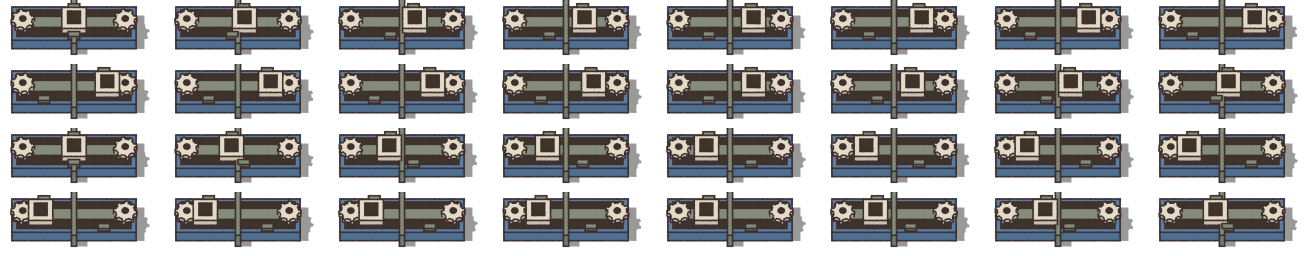
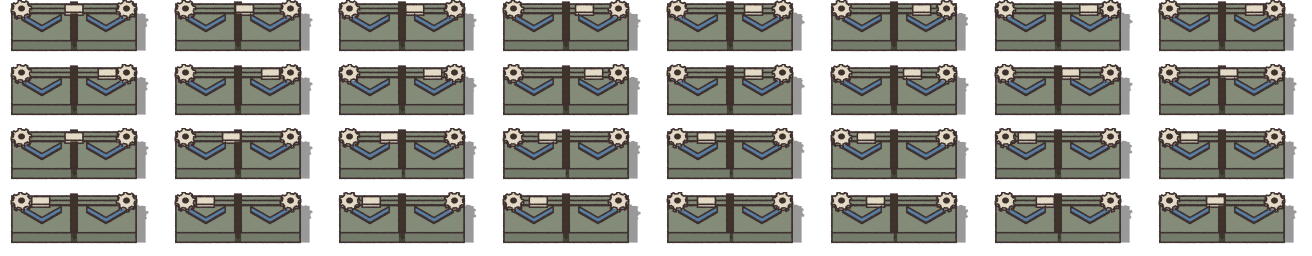
Cartoon : tête des répartiteurs plus épaisse et lisible (bloc gris, chevrons à la couleur du niveau)
Décision de l'étape 1 : la barre fine se perdait sur les convoyeurs.

diff --git a/cartoon/blender/splitter.py b/cartoon/blender/splitter.py
@@ -7,8 +7,8 @@ Pour chaque niveau, écrit les fichiers du prototype d'origine (<jeu>/entity/<no
   <nom>-east-top_patch.png, -west-top_patch.png         la moitié haute, dessinée par-dessus les objets (est et ouest)
   <nom>-icon.png                                        icône 64 px + mipmaps
 
-La tête est un bloc de 2 cases de large (couleur du niveau), une cloison au milieu, un chariot qui va
-d'une voie à l'autre et deux pignons qui tournent avec lui. Le modèle est rendu une fois par image sur un grand canevas centré sur
+La tête est un bloc gris de 2 cases de large portant deux chevrons à la couleur du niveau, une cloison au milieu,
+un chariot qui va d'une voie à l'autre et deux pignons qui tournent avec lui. Le modèle est rendu une fois par image sur un grand canevas centré sur
 l'entité, puis découpé aux fenêtres de l'original (taille et décalage des prototypes) : l'est et l'ouest
 sont des entités verticales de 2 cases, dont la moitié haute est une pièce à part (« top_patch »).
 Les convoyeurs dessous sont ceux de belt.py (le moteur les anime avec la planche des convoyeurs).
@@ -57,13 +57,18 @@ DIR_OVERRIDES = {
     },
 }
 
-HALF_LEN = 0.3           # demi-profondeur de la tête le long du flux
+HALF_LEN = 0.33          # demi-profondeur de la tête le long du flux
 HALF_WIDTH = 0.97        # demi-largeur (2 cases)
-HEIGHT = 0.26
+HEIGHT = 0.3             # assez haut pour que la face avant se voie, assez bas pour tenir dans le cadre du nord (70 px)
+CHEVRON = (0.2, 0.3, 0.09)   # chevrons du dessus : recul des branches, demi-envergure, épaisseur (en cases)
 
 
 def build_head(direction, phase, belt):
-    """Ajoute la tête du répartiteur à la scène (sans réinitialiser)."""
+    """Ajoute la tête du répartiteur à la scène (sans réinitialiser).
+
+    Un bloc gris acier (il doit ressortir sur les bords des convoyeurs, qui ont la couleur du niveau), deux chevrons
+    à la couleur du niveau sur le dessus (un par voie, dans le sens du flux, comme ceux de l'original), une cloison centrale, et un mécanisme bas : un chariot qui va d'une voie à l'autre le long
+    d'un rail, deux pignons aux extrémités qui tournent avec lui (crémaillère)."""
     (fx, fy), _, _ = DIRS[direction]
     lx, ly = -fy, fx
     rail, dark = mat("body", P[BELTS[belt]["rail"]]), mat("dark", P["dark"])
@@ -75,24 +80,28 @@ def build_head(direction, phase, belt):
     def slab(s0, s1, d0, d1, z0, z1, m, nu=4, nv=8):
         prism(lambda u, v: to_world(s0 + (s1 - s0) * u, d0 + (d1 - d0) * v), nu, nv, z0, z1, m)
 
-    slab(-HALF_LEN, HALF_LEN, -HALF_WIDTH, HALF_WIDTH, 0.0, HEIGHT, rail)               # bloc
-    slab(-HALF_LEN + 0.07, HALF_LEN - 0.07, -HALF_WIDTH + 0.08, HALF_WIDTH - 0.08, HEIGHT, HEIGHT + 0.03, dark)   # plateau
-    slab(-HALF_LEN - 0.1, HALF_LEN + 0.1, -0.04, 0.04, 0.0, HEIGHT + 0.08, steel, 8, 1)                      # cloison centrale
-    # mécanisme : un chariot qui va d'une voie à l'autre le long d'un rail, et deux pignons aux extrémités qui
-    # tournent avec lui (crémaillère) ; deux petits coulisseaux de part et d'autre vont en sens inverse
-    travel, gear_r = 0.52, 0.15
+    def chevron(s_tip, d_center, z0, z1, m):
+        back, half, thick = CHEVRON
+
+        def f(u, v):
+            d = (v - 0.5) * 2 * half                          # de -half à +half, la pointe au milieu (v = 0,5)
+            s = s_tip - back * abs(d) / half + (u - 0.5) * thick
+            return to_world(s, d_center + d)
+        prism(f, 1, 2, z0, z1, m)
+
+    slab(-HALF_LEN, HALF_LEN, -HALF_WIDTH, HALF_WIDTH, 0.0, HEIGHT, steel)                 # bloc
+    top = HEIGHT
+    for lane in (-0.5, 0.5):
+        chevron(0.12, lane, top, top + 0.03, rail)                                           # un chevron par voie
+    slab(-HALF_LEN, HALF_LEN, -0.05, 0.05, 0.0, top + 0.06, dark, 8, 1)                      # cloison centrale
+    travel, gear_r = 0.52, 0.13
     pos = travel * math.sin(2 * math.pi * phase)
-    top = HEIGHT + 0.03
-    slab(-0.1, 0.1, -0.74, 0.74, top, top + 0.025, steel, 2, 16)                               # rail
-    slab(-0.19, 0.19, pos - 0.19, pos + 0.19, top, top + 0.15, light, 2, 2)                    # chariot
-    slab(-0.1, 0.1, pos - 0.1, pos + 0.1, top + 0.15, top + 0.19, dark, 2, 2)
-    for k, s in enumerate((-0.25, 0.25)):
-        c = -pos * (1 if k else -1) * 0.9
-        slab(s - 0.045, s + 0.045, c - 0.09, c + 0.09, top, top + 0.08, steel, 2, 2)           # coulisseaux
+    slab(-0.24, -0.16, -0.74, 0.74, top, top + 0.02, steel, 2, 16)                           # rail (bord arrière)
+    slab(-0.27, -0.13, pos - 0.14, pos + 0.14, top, top + 0.09, light, 2, 2)                 # chariot
     spin = math.degrees(pos / gear_r)
-    for side in (-0.8, 0.8):
-        x, y = to_world(0.0, side)
-        gear((x, y, top + 0.06), gear_r, 0.1, 8, spin, light, dark)
+    for side in (-0.82, 0.82):
+        x, y = to_world(-0.2, side)
+        gear((x, y, top + 0.04), gear_r, 0.07, 8, spin, light, dark)
     return to_world
 
 
